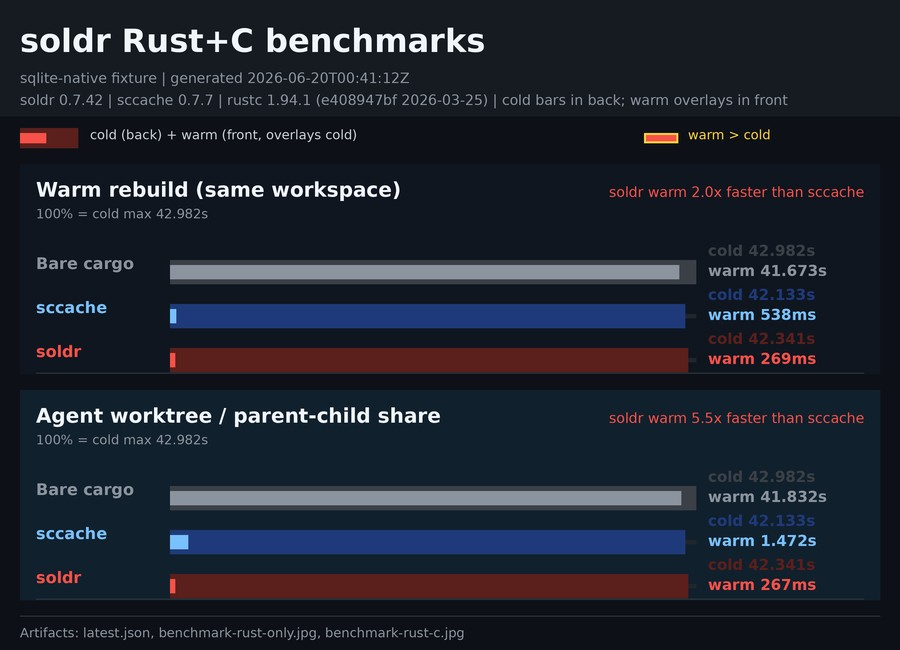
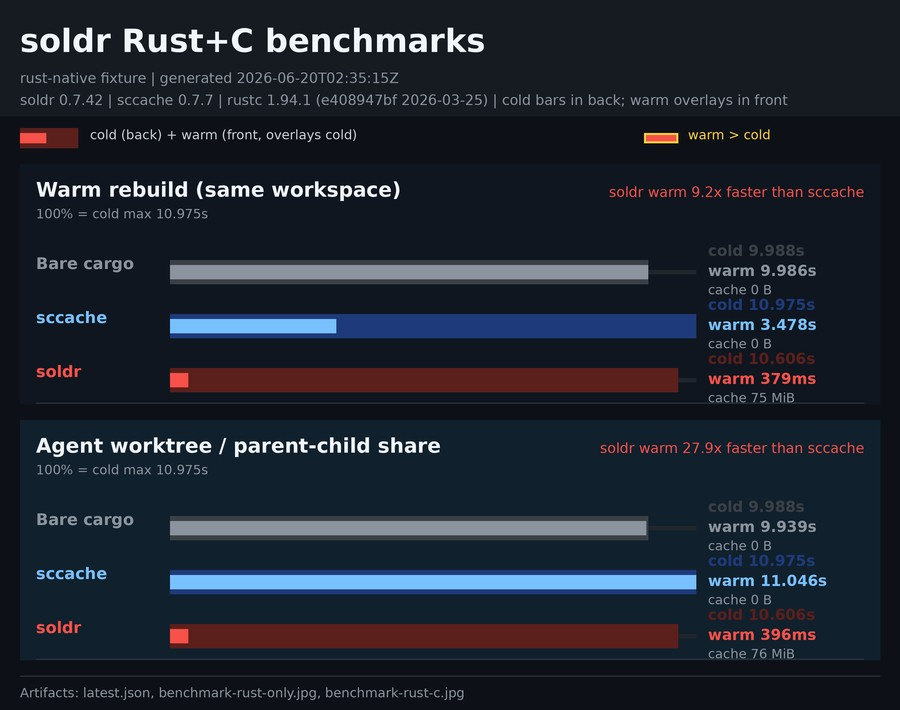
chore: publish benchmark stats for 25daa151b1eb11ff0bc4dbea597540b90dc5f894

diff --git a/index.html b/index.html
@@ -107,6 +107,9 @@
     <h2>Last 50 main-commits (dense)</h2>
     <div class="chart-wrap"><canvas id="chart-recent"></canvas></div>
 
+    <h2>Last 50 README comparison cache sizes</h2>
+    <div class="chart-wrap"><canvas id="chart-cache-recent"></canvas></div>
+
     <h2>Last 1000 main-commits (sparse, every-Nth sample)</h2>
     <div class="chart-wrap"><canvas id="chart-sparse"></canvas></div>
 
@@ -154,6 +157,19 @@
 
     function shortSha(sha) {
         return (sha || '').slice(0, 7);
+    }
+
+    function formatBytes(value) {
+        if (typeof value !== 'number' || value < 0) return 'n/a';
+        const units = ['B', 'KiB', 'MiB', 'GiB'];
+        let amount = value;
+        let unit = units[0];
+        for (unit of units) {
+            if (amount < 1024 || unit === units[units.length - 1]) break;
+            amount /= 1024;
+        }
+        if (unit === 'B') return `${Math.round(amount)} B`;
+        return `${amount < 10 ? amount.toFixed(1) : amount.toFixed(0)} ${unit}`;
     }
 
     // Every-Nth downsample: always include first + last; pick ~targetCount
@@ -242,6 +258,69 @@
         });
     }
 
+    function renderCacheHistoryChart(canvasId, rows) {
+        const ctx = document.getElementById(canvasId).getContext('2d');
+        const labels = rows.map(r => shortSha(r.sha));
+        const keys = [];
+        for (const row of rows) {
+            for (const item of row.comparison || []) {
+                const key = `${item.benchmark}/${item.scenario_key}/${item.tool}`;
+                if (!keys.includes(key)) keys.push(key);
+            }
+        }
+        const colors = ['#2da44e', '#1976d2', '#d32f2f', '#7b1fa2', '#f57c00', '#00838f', '#57606a'];
+        const datasets = keys.map((key, idx) => ({
+            label: key,
+            data: rows.map(row => {
+                const item = (row.comparison || []).find(entry => `${entry.benchmark}/${entry.scenario_key}/${entry.tool}` === key);
+                return item && typeof item.cache_bytes === 'number' ? item.cache_bytes / (1024 * 1024) : null;
+            }),
+            borderColor: colors[idx % colors.length],
+            backgroundColor: colors[idx % colors.length],
+            tension: 0.15,
+            spanGaps: true,
+            pointRadius: 2,
+            borderWidth: 1.5,
+        }));
+
+        return new Chart(ctx, {
+            type: 'line',
+            data: { labels, datasets },
+            options: {
+                responsive: true,
+                maintainAspectRatio: false,
+                animation: false,
+                interaction: { mode: 'nearest', intersect: false },
+                scales: {
+                    x: {
+                        title: { display: true, text: 'commit (oldest left â†’ newest right)' },
+                        ticks: { autoSkip: true, maxTicksLimit: 16, font: { family: 'ui-monospace, monospace', size: 10 } },
+                    },
+                    y: {
+                        beginAtZero: true,
+                        title: { display: true, text: 'cache size (MiB)' },
+                    },
+                },
+                plugins: {
+                    legend: {
+                        position: 'top',
+                        labels: { boxWidth: 12, font: { size: 10 } },
+                    },
+                    tooltip: {
+                        callbacks: {
+                            title: (items) => {
+                                const idx = items[0].dataIndex;
+                                const row = rows[idx];
+                                return `${shortSha(row.sha)} â€” ${row.ts || ''}`;
+                            },
+                            label: (item) => `${item.dataset.label}: ${formatBytes(item.parsed.y * 1024 * 1024)}`,
+                        },
+                    },
+                },
+            },
+        });
+    }
+
     function renderComparisonChart(canvasId, latest, benchmark) {
         const canvas = document.getElementById(canvasId);
         const rows = (latest && latest.results || []).filter(row => row.benchmark === benchmark);
@@ -304,7 +383,7 @@
                                 const tool = tools[item.datasetIndex];
                                 const row = byKey.get(`${scenario}:${tool}`);
                                 if (!row) return `${item.dataset.label}: no data`;
-                                return `${item.dataset.label}: ${row.wall_ms.toLocaleString()} ms - ${row.command}`;
+                                return `${item.dataset.label}: ${row.wall_ms.toLocaleString()} ms, cache ${formatBytes(row.cache_bytes)} - ${row.command}`;
                             },
                             afterBody: (items) => {
                                 if (!items.length) return '';
@@ -409,6 +488,9 @@
             document.getElementById('chart-recent').replaceWith(Object.assign(document.createElement('div'), {
                 className: 'empty', textContent: 'No history rows yet.',
             }));
+            document.getElementById('chart-cache-recent').replaceWith(Object.assign(document.createElement('div'), {
+                className: 'empty', textContent: 'No history rows yet.',
+            }));
             document.getElementById('chart-sparse').replaceWith(Object.assign(document.createElement('div'), {
                 className: 'empty', textContent: 'No history rows yet.',
             }));
@@ -417,6 +499,13 @@
 
         const recent = history.slice(-50);
         renderChart('chart-recent', recent, canaryNames, manifest.canaries);
+        if (recent.some(row => Array.isArray(row.comparison) && row.comparison.length > 0)) {
+            renderCacheHistoryChart('chart-cache-recent', recent);
+        } else {
+            document.getElementById('chart-cache-recent').replaceWith(Object.assign(document.createElement('div'), {
+                className: 'empty', textContent: 'No cache history rows yet.',
+            }));
+        }
 
         // For the sparse view, downsample anything bigger than 50 to ~50 points.
         const sparse = (history.length <= 50) ? history.slice() : downsampleEveryNth(history, 50);
